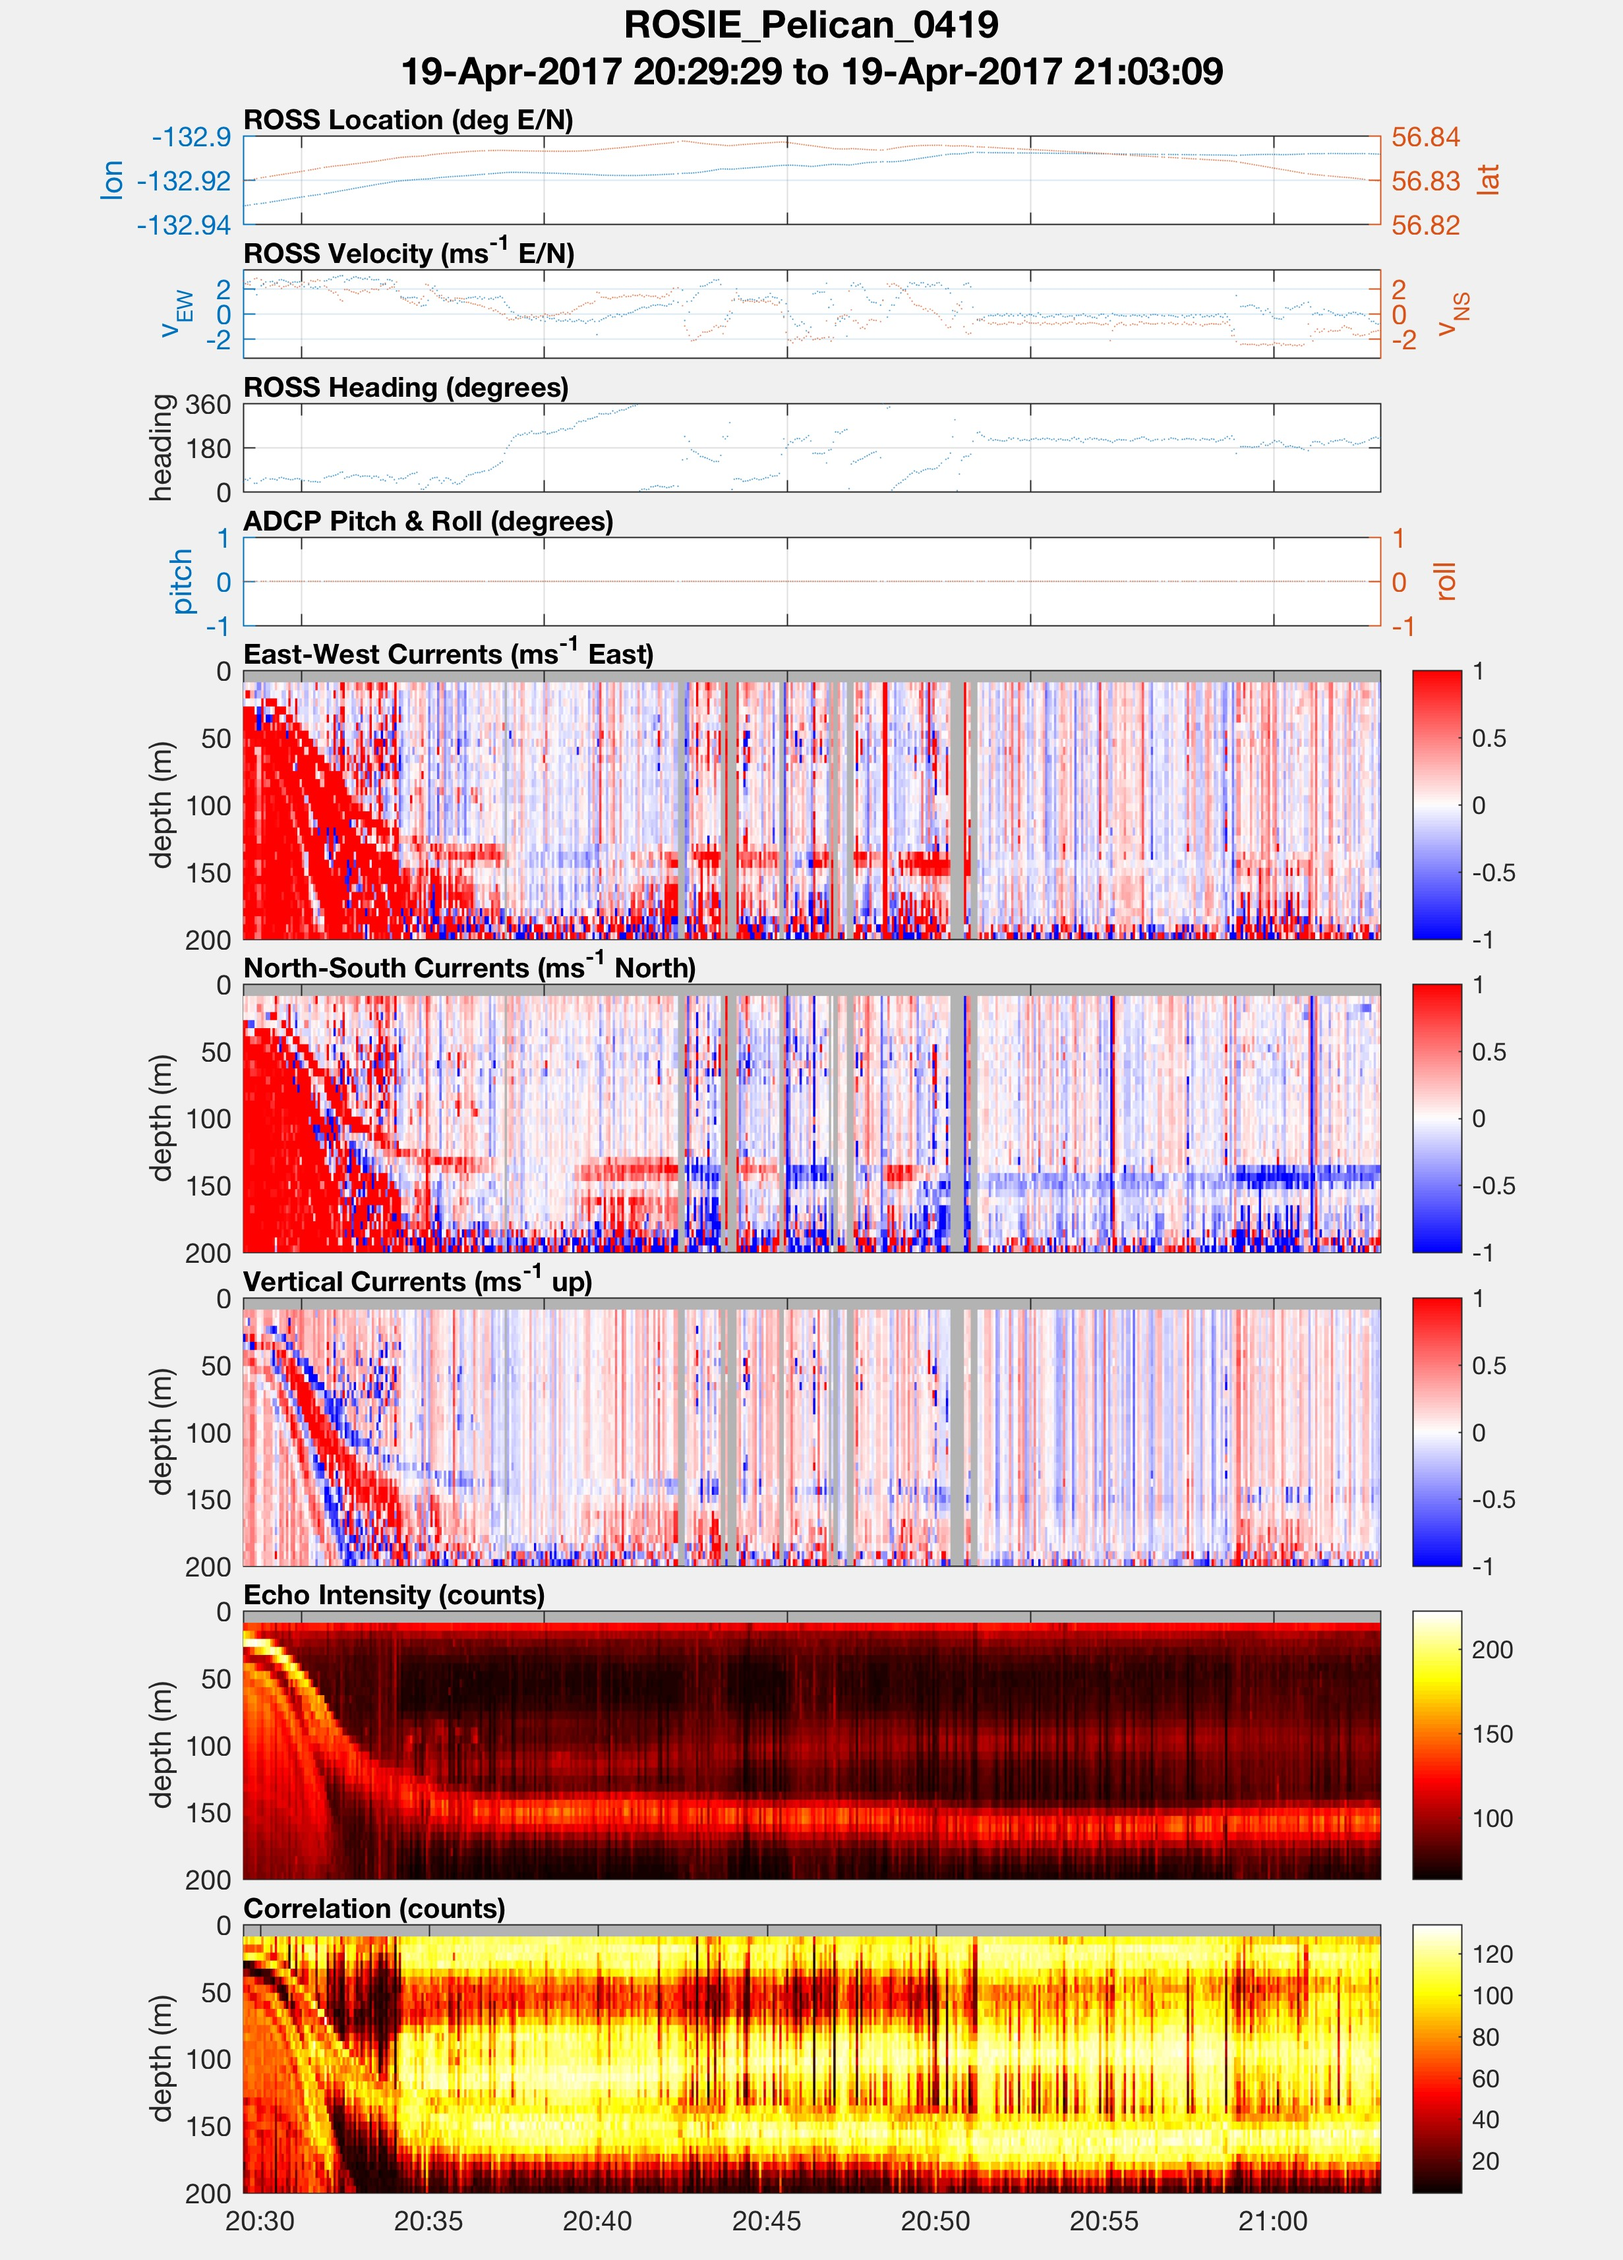
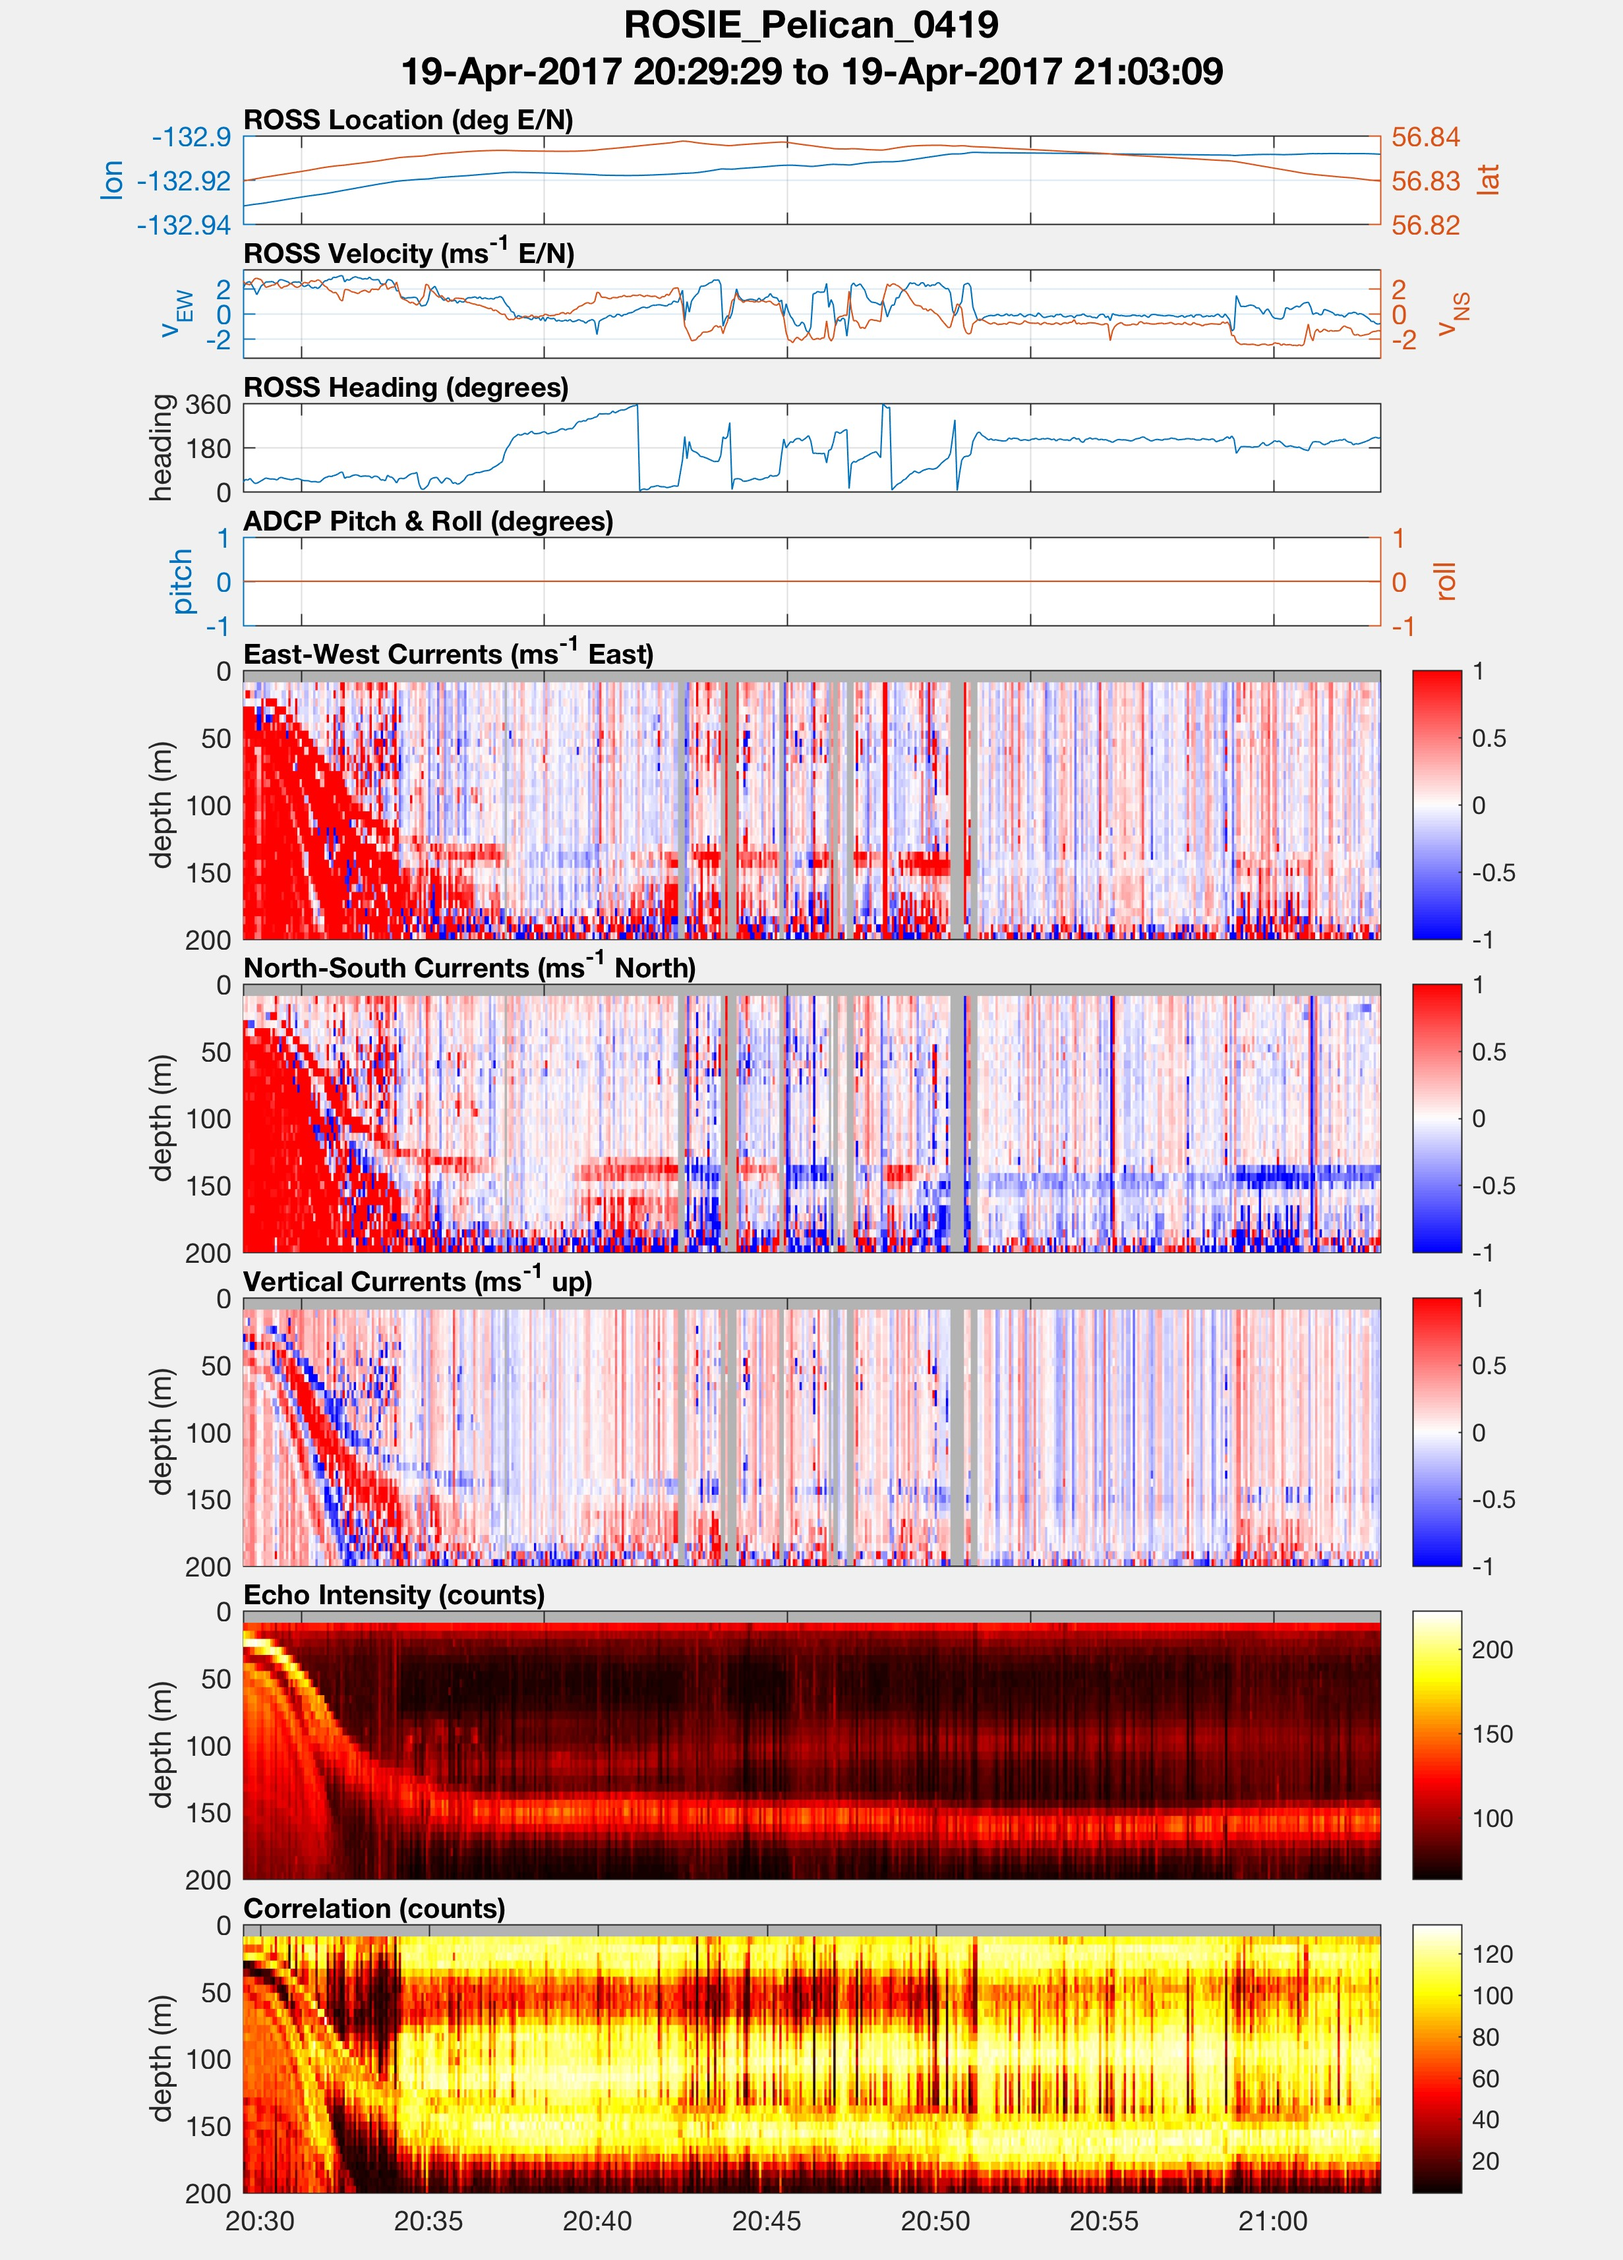
change plot style for summary figure

diff --git a/Code/figures/ross_figure_summary.m b/Code/figures/ross_figure_summary.m
@@ -6,7 +6,7 @@ dat = load(dep.files.final);
 adcp = dat.adcp; clear dat
 
 %% Plot settings
-psty = '.'; % plot style
+psty = '-'; % plot style
 msiz = 1; % plot marker size
 axesfontsize = 10;
 
